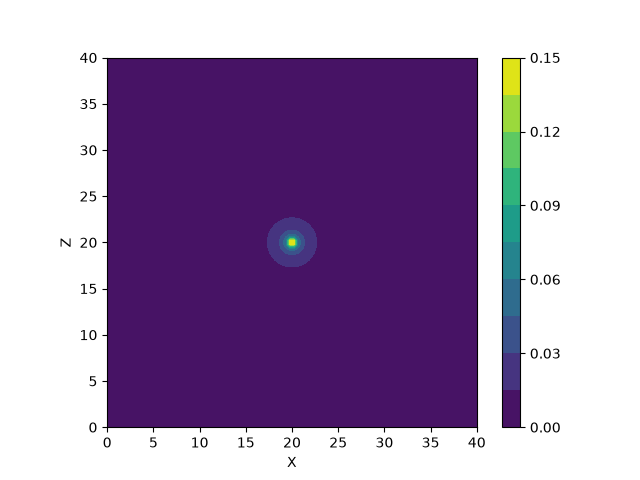
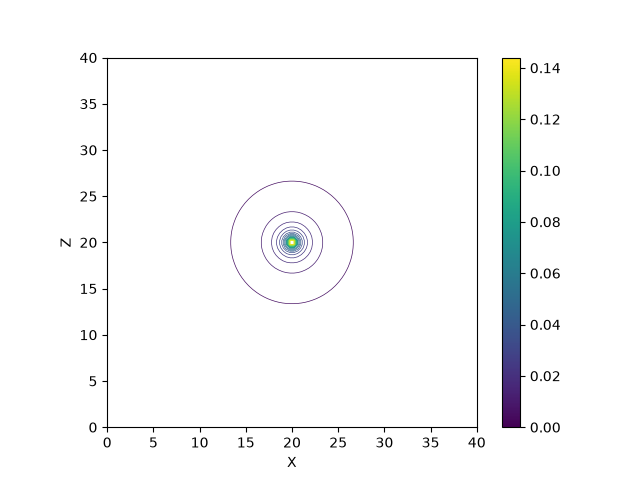
Plots ready

diff --git a/hw1/generate_plots.py b/hw1/generate_plots.py
@@ -4,7 +4,7 @@ import pathlib
 
 import matplotlib.pyplot as plt
 import numpy as np
-from matplotlib import colors
+from matplotlib import colors, cm
 
 
 SAVEDIR = pathlib.Path(__file__).parent / "plots"
@@ -22,11 +22,12 @@ def plot_contours(phi):
     solution = phi(xx, 0, zz)
 
     fig, ax = plt.subplots()
-    contour = ax.contourf(x, z, solution, levels=10)
+    contour = ax.contour(x, z, solution, levels=25, linewidth=0.5)
     ax.set_aspect("equal")
     ax.set_xlabel("X")
     ax.set_ylabel("Z")
-    fig.colorbar(contour)
+    mappable = cm.ScalarMappable(norm=contour.norm, cmap=contour.cmap)
+    fig.colorbar(mappable, ax=ax)
 
     plt.savefig(SAVEDIR / "contours.png")
 
@@ -38,6 +39,7 @@ def plot_vectors(phi):
     z = np.linspace(0, 40, 40)
     xx, zz = np.meshgrid(x, z)
     solution = phi(xx, 0, zz)
+    print(solution.shape)
     ax.quiver(xx, zz, 0, solution, scale=0.4, width=0.004, minlength=0.1)
 
     ax.set_aspect("equal")
